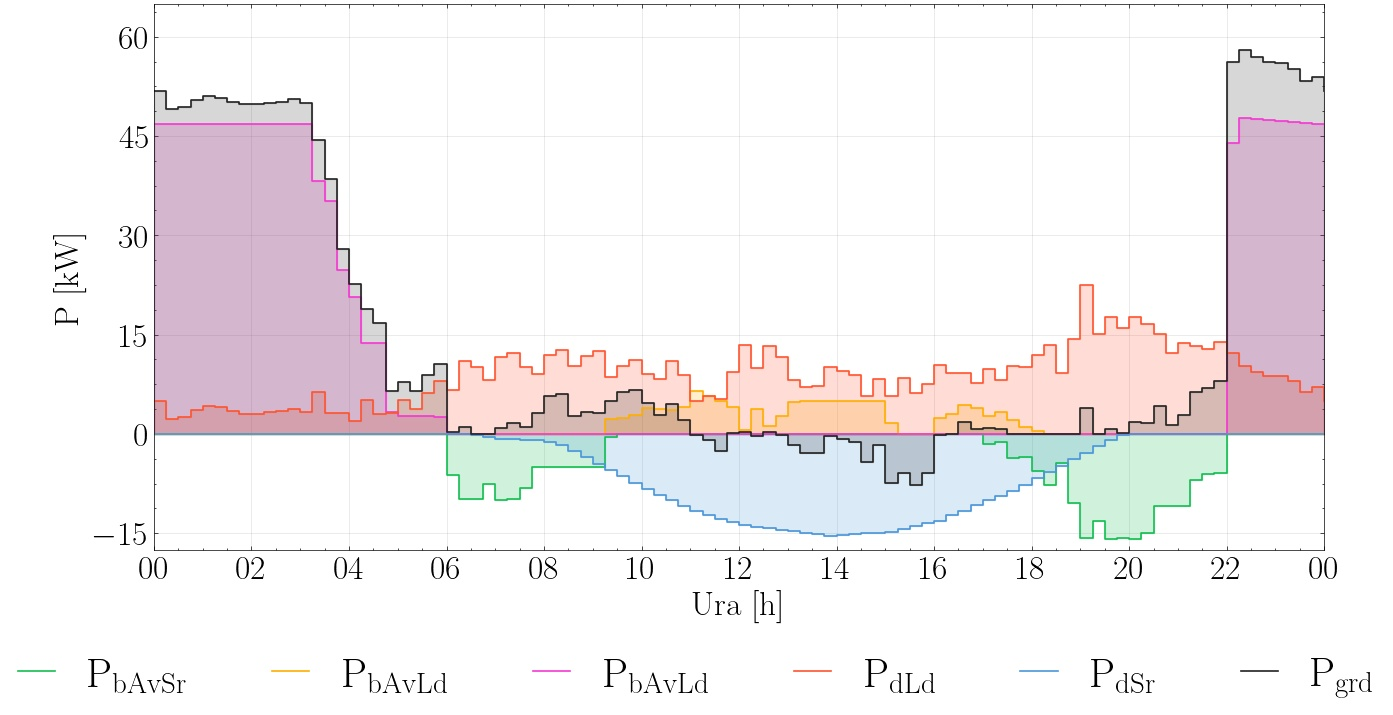
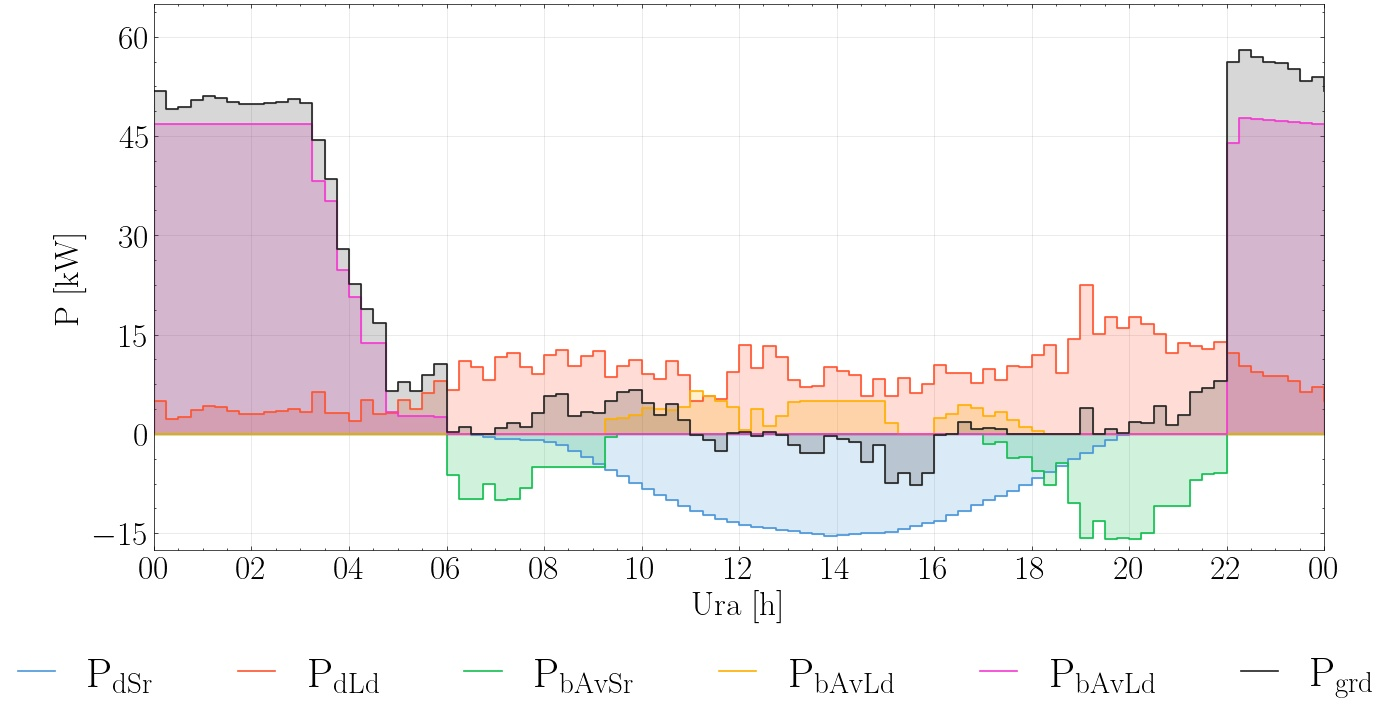
l

diff --git a/SimulatorUser/ExportData/dd.py b/SimulatorUser/ExportData/dd.py
@@ -201,7 +201,7 @@ def drawingPowerSystemGraph(FileDirecotoryUserData, TestNumber, DatetTimeTest, A
     PowerLow=0
     PowerHigh=0
     
-    for q in range (1):
+    for q in range (4):
 
         UserNumber=ArrUserNumber[q]
         UserData=readUserPowerData(FileDirecotoryUserData, TestNumber, DatetTimeTest,UserNumber)
@@ -257,7 +257,11 @@ def drawingPowerGraph(axs,UserData,PowerLow,PowerHigh,fntSize):
 
     let=len(UserData[0])
 
+    axs.fill_between(UserData[0],UserData[3], step="post", color="#4b96da",alpha=0.20)
+    axs.plot(UserData[0],UserData[3],drawstyle="steps-post", color="#4b96da", alpha=1,linewidth=1.2,label=(r'$\mathrm{P_{dSr}}$'))
 
+    axs.fill_between(UserData[0],UserData[4], step="post", color="#ff5430",alpha=0.20)
+    axs.plot(UserData[0],UserData[4],drawstyle="steps-post", color="#ff5430", alpha=1,linewidth=1.2,label=(r'$\mathrm{P_{dLd}}$'))
 
     axs.fill_between(UserData[0],UserData[5], step="post", color="#14be53",alpha=0.20)
     axs.plot(UserData[0],UserData[5],drawstyle="steps-post", color="#14be53", alpha=1,linewidth=1.2,label=(r'$\mathrm{P_{bAvSr}}$'))
@@ -268,11 +272,6 @@ def drawingPowerGraph(axs,UserData,PowerLow,PowerHigh,fntSize):
     axs.fill_between(UserData[0],UserData[7], step="post",color="#f538d3", alpha=0.20)
     axs.plot(UserData[0],UserData[7],drawstyle="steps-post", color="#f538d3", alpha=1,linewidth=1.2,label=(r'$\mathrm{P_{bAvLd}}$'))
 
-    axs.fill_between(UserData[0],UserData[4], step="post", color="#ff5430",alpha=0.20)
-    axs.plot(UserData[0],UserData[4],drawstyle="steps-post", color="#ff5430", alpha=1,linewidth=1.2,label=(r'$\mathrm{P_{dLd}}$'))
-
-    axs.fill_between(UserData[0],UserData[3], step="post", color="#4b96da",alpha=0.20)
-    axs.plot(UserData[0],UserData[3],drawstyle="steps-post", color="#4b96da", alpha=1,linewidth=1.2,label=(r'$\mathrm{P_{dSr}}$'))
 
     Pgrd=np.add(UserData[1],UserData[2])
 
@@ -413,8 +412,8 @@ SelectedUser=[1,2,3,4]
 FileDirecotory="./"
 DateTime="01/02/2022 00:30"
 
-for i in range (1,2):
-    TestNumber=3030
+for i in range (1,6):
+    TestNumber=i
     drawingPowerGraph4Users(FileDirecotory, TestNumber, DateTime,SelectedUser)
     drawingPowerSystemGraph(FileDirecotory, TestNumber, DateTime,SelectedUser)
     drawingSOCGraaph(FileDirecotory, TestNumber, DateTime,SelectedUser)
